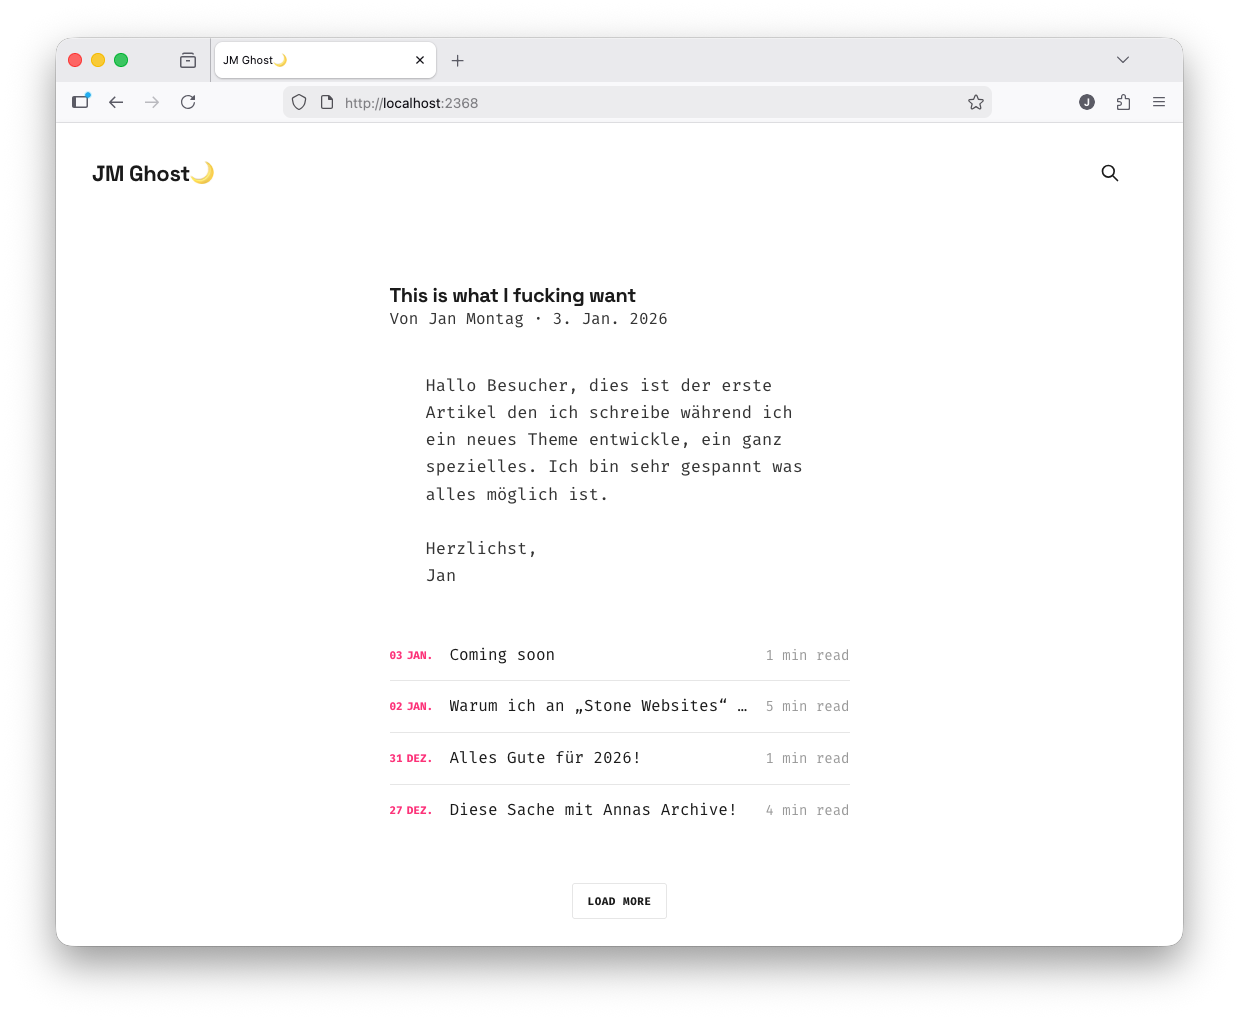
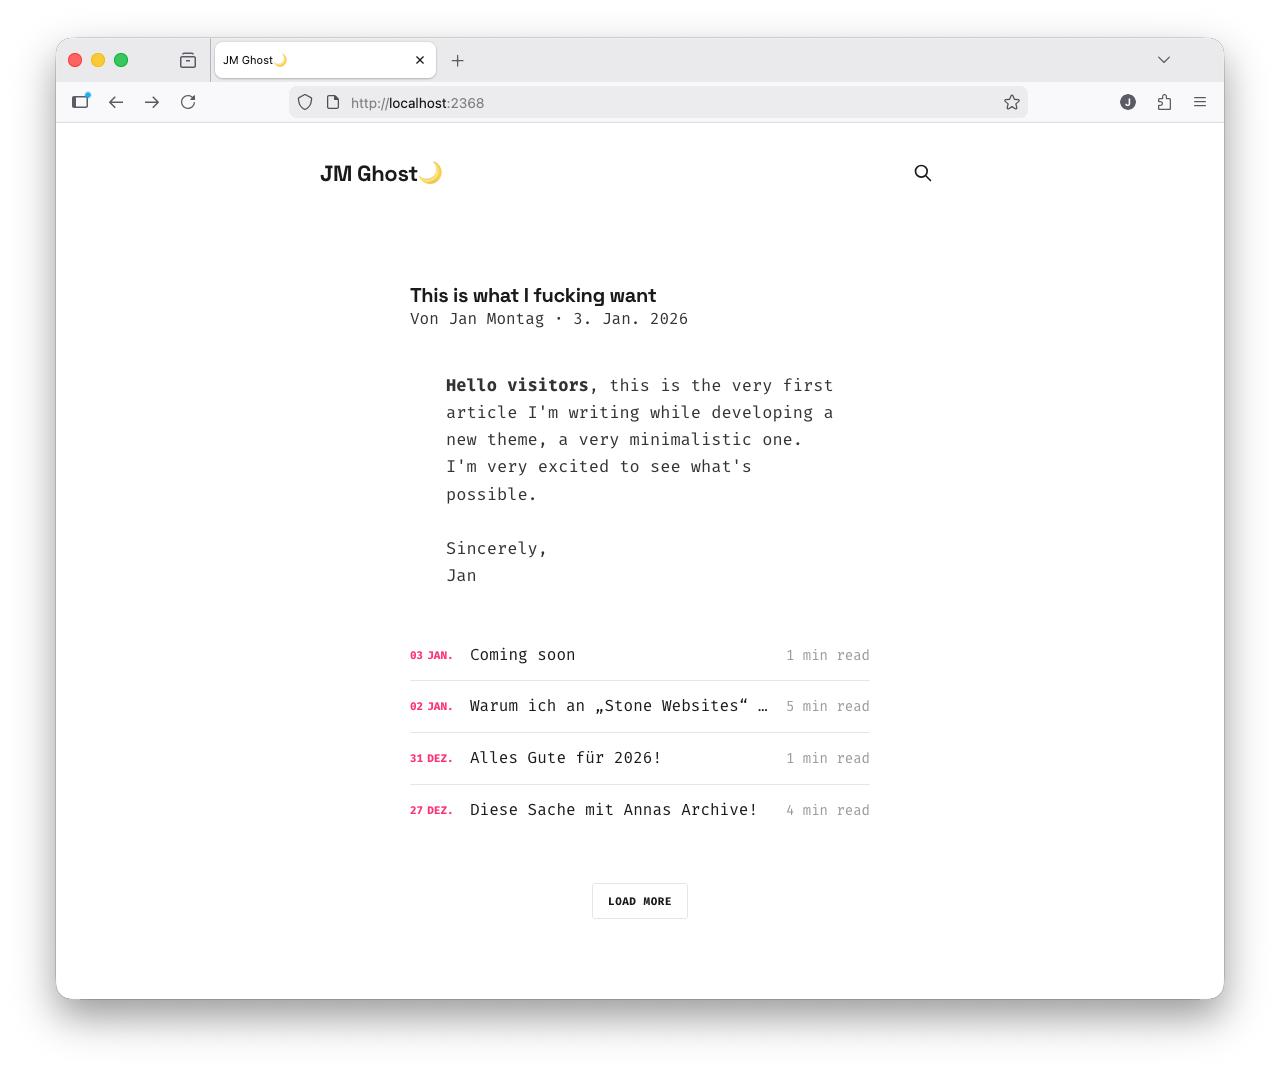
Readme and Screenshot

diff --git a/assets/built/screen.css b/assets/built/screen.css
@@ -8,7 +8,7 @@
 }
 
 .gh-head-inner {
-    max-width: 800px !important;
+    max-width: 640px !important;
     margin: 0 auto !important;
 }
 

diff --git a/README.md b/README.md
@@ -1,6 +1,10 @@
 # Ghost Theme JM Ghost
 
-First push 03.01.2026
+(First push 03.01.2026)
+
+Welcome to my Ghost CMS Theme **JM Ghost**. It is a very minimalistic Theme for short notes. I reduced all the capacity of Ghost CMS to look as clean and minimal at it is possible.
+
+Hope you enjoy.
 
 ![](screenshot.png)
 
